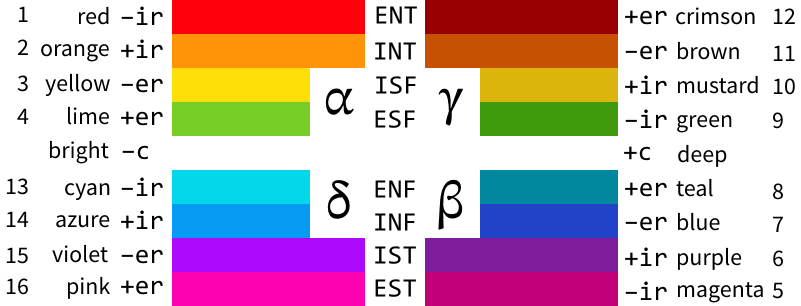
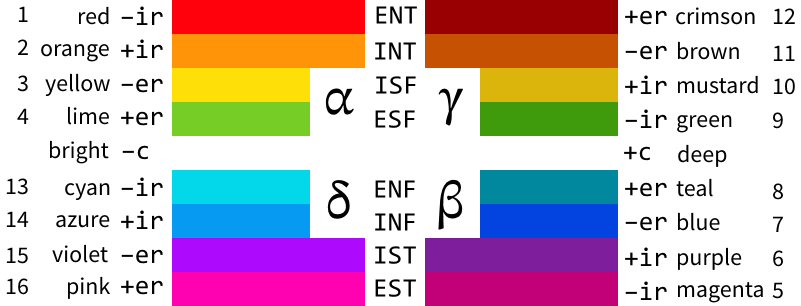
commit

Changed region(s): [[0.593, 0.6471, 0.7803, 0.7941]]

diff --git a/README.md b/README.md
@@ -774,7 +774,7 @@ Deep/Bright switch would be Rational/Irrational switch to quasi-identity type.
 | ![](pic/4.png)  | lime    | 4   | ESF<sub>+er</sub> | α   | ESE, ESFJ, FeS | apple green   |
 | ![](pic/5.png)  | magenta | 5   | EST<sub>−ir</sub> | β   | SLE, ESTP, SeT | magenta       |
 | ![](pic/6.png)  | purple  | 6   | IST<sub>+ir</sub> | β   | LSI, ISTx, TiS | purple        |
-| ![](pic/7.png)  | blue    | 7   | INF<sub>−er</sub> | β   | IEI, INFx, NiF | blue blue     |
+| ![](pic/7.png)  | blue    | 7   | INF<sub>−er</sub> | β   | IEI, INFx, NiF | blue          |
 | ![](pic/8.png)  | teal    | 8   | ENF<sub>+er</sub> | β   | EIE, ENFJ, FeN | teal blue     |
 | ![](pic/9.png)  | green   | 9   | ESF<sub>−ir</sub> | γ   | SEE, ESFP, SeF | grass green   |
 | ![](pic/10.png) | mustard | 10  | ISF<sub>+ir</sub> | γ   | ESI, ISFx, FiS | gold          |
